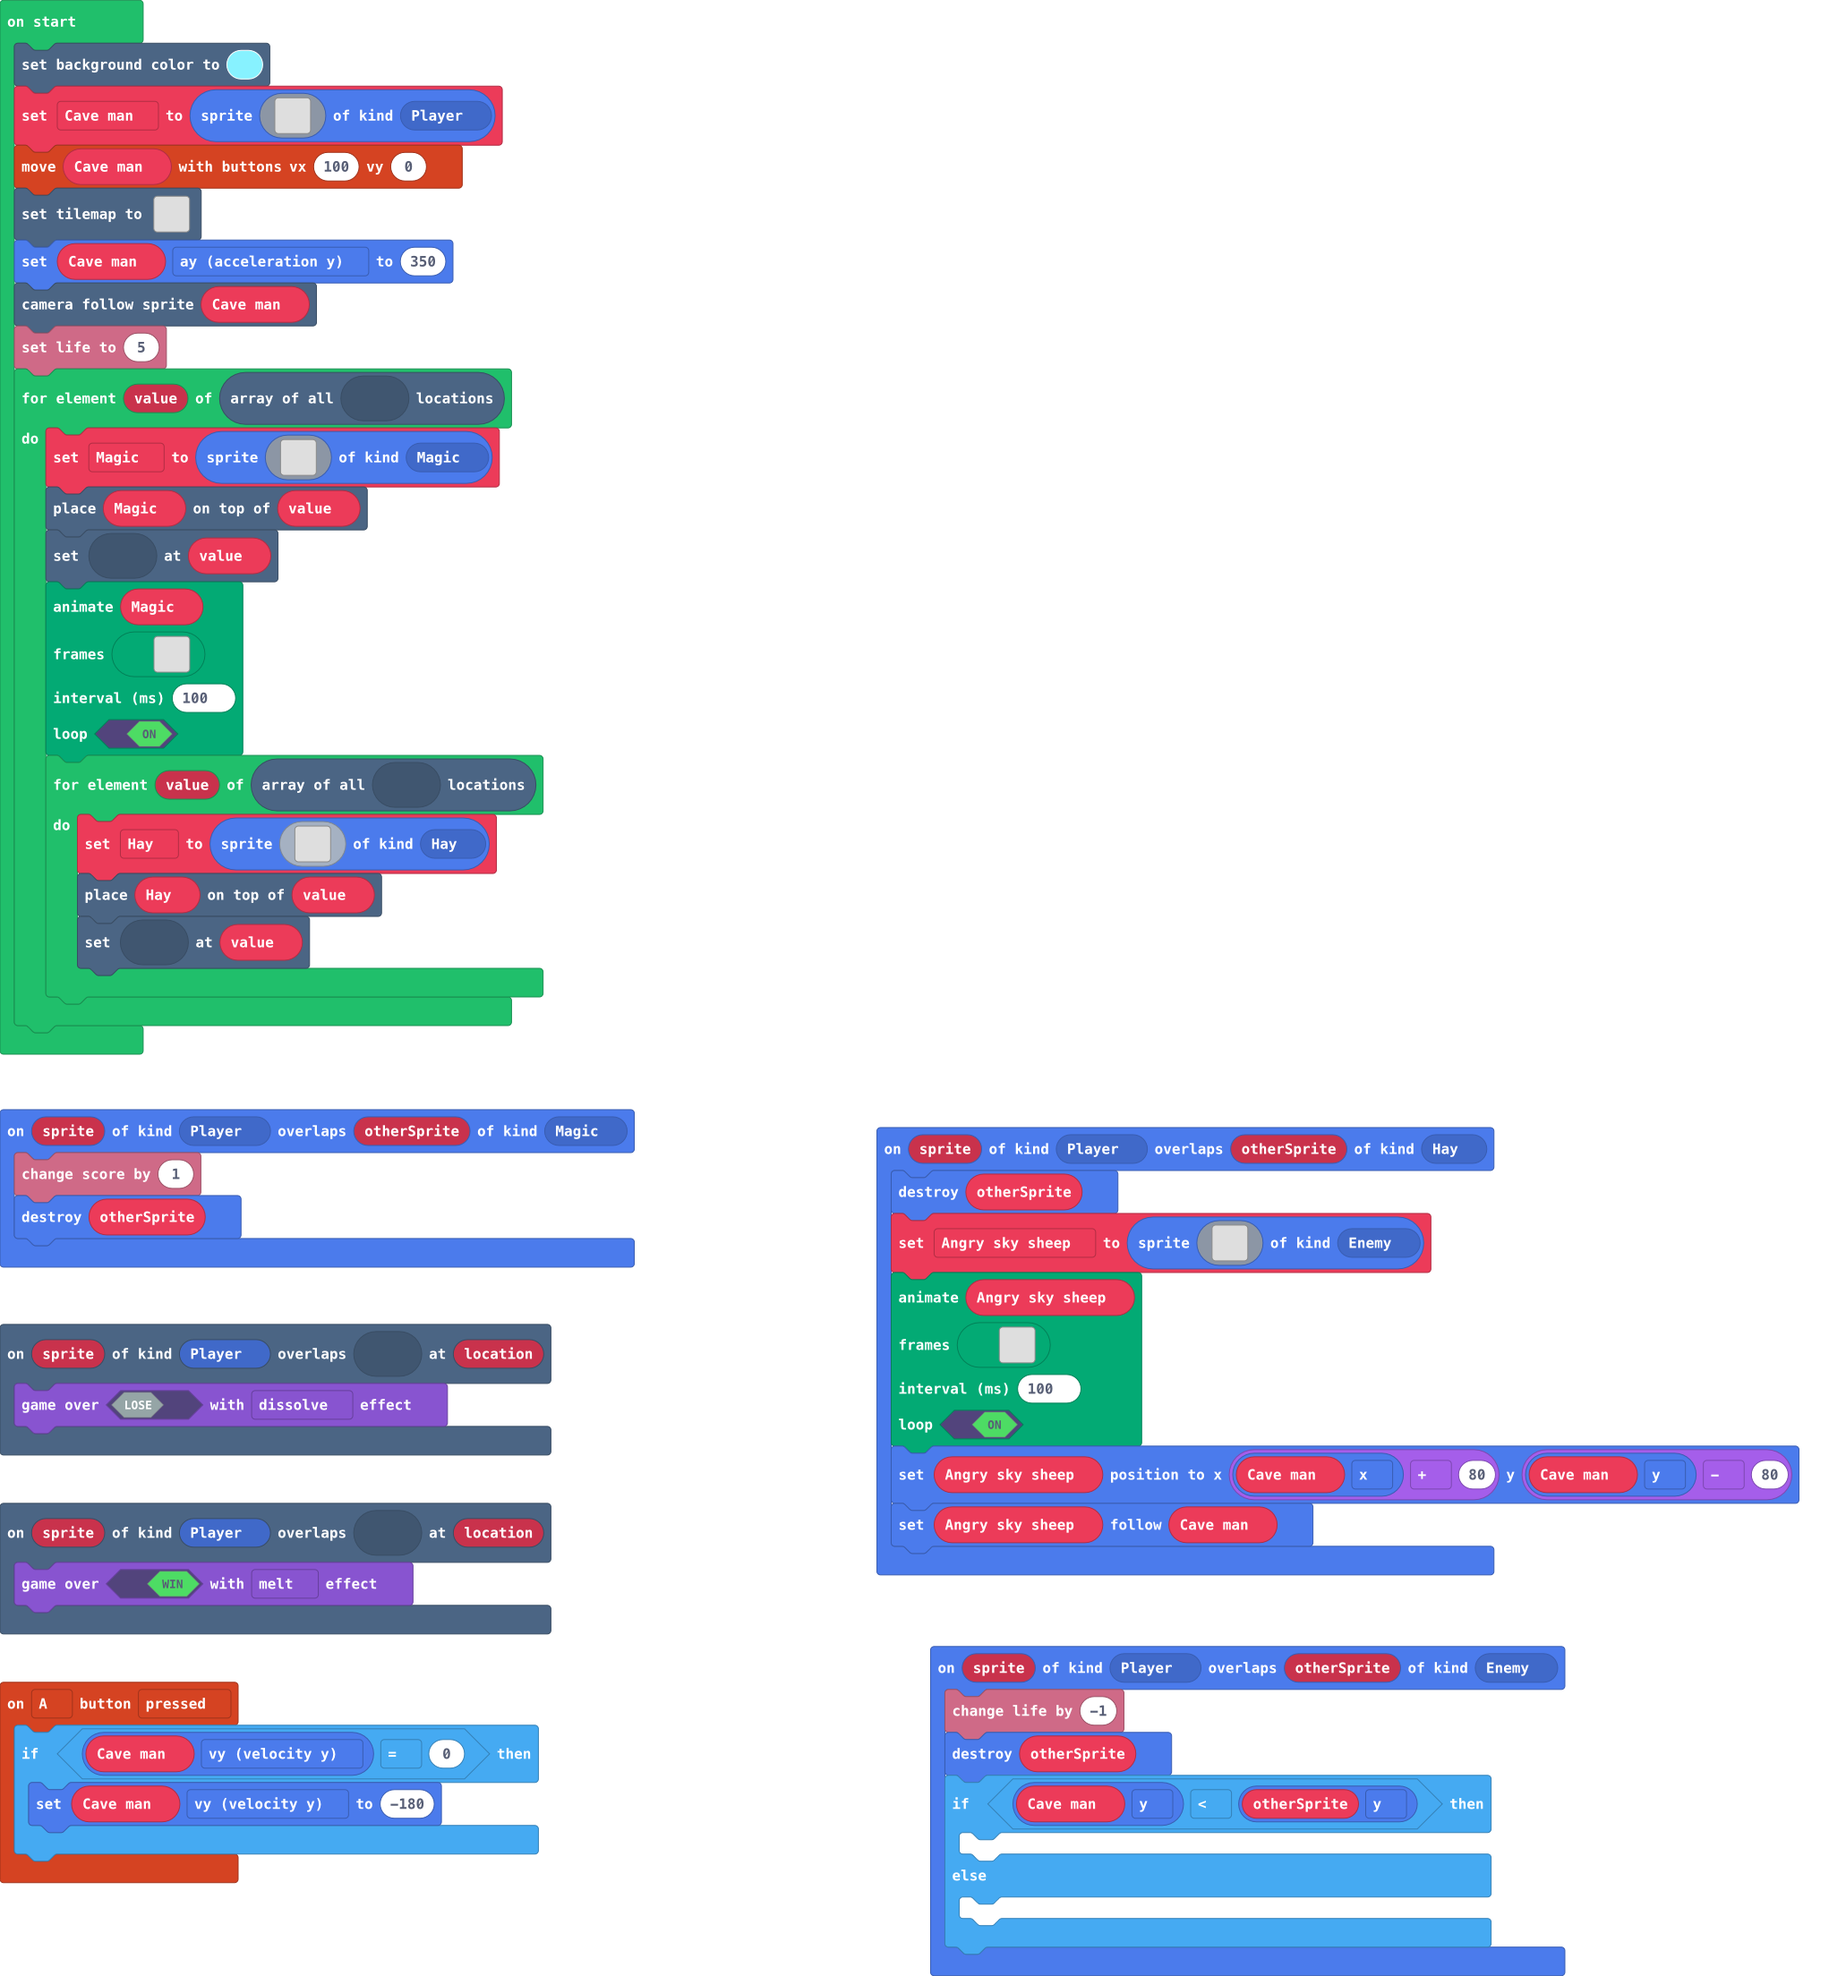
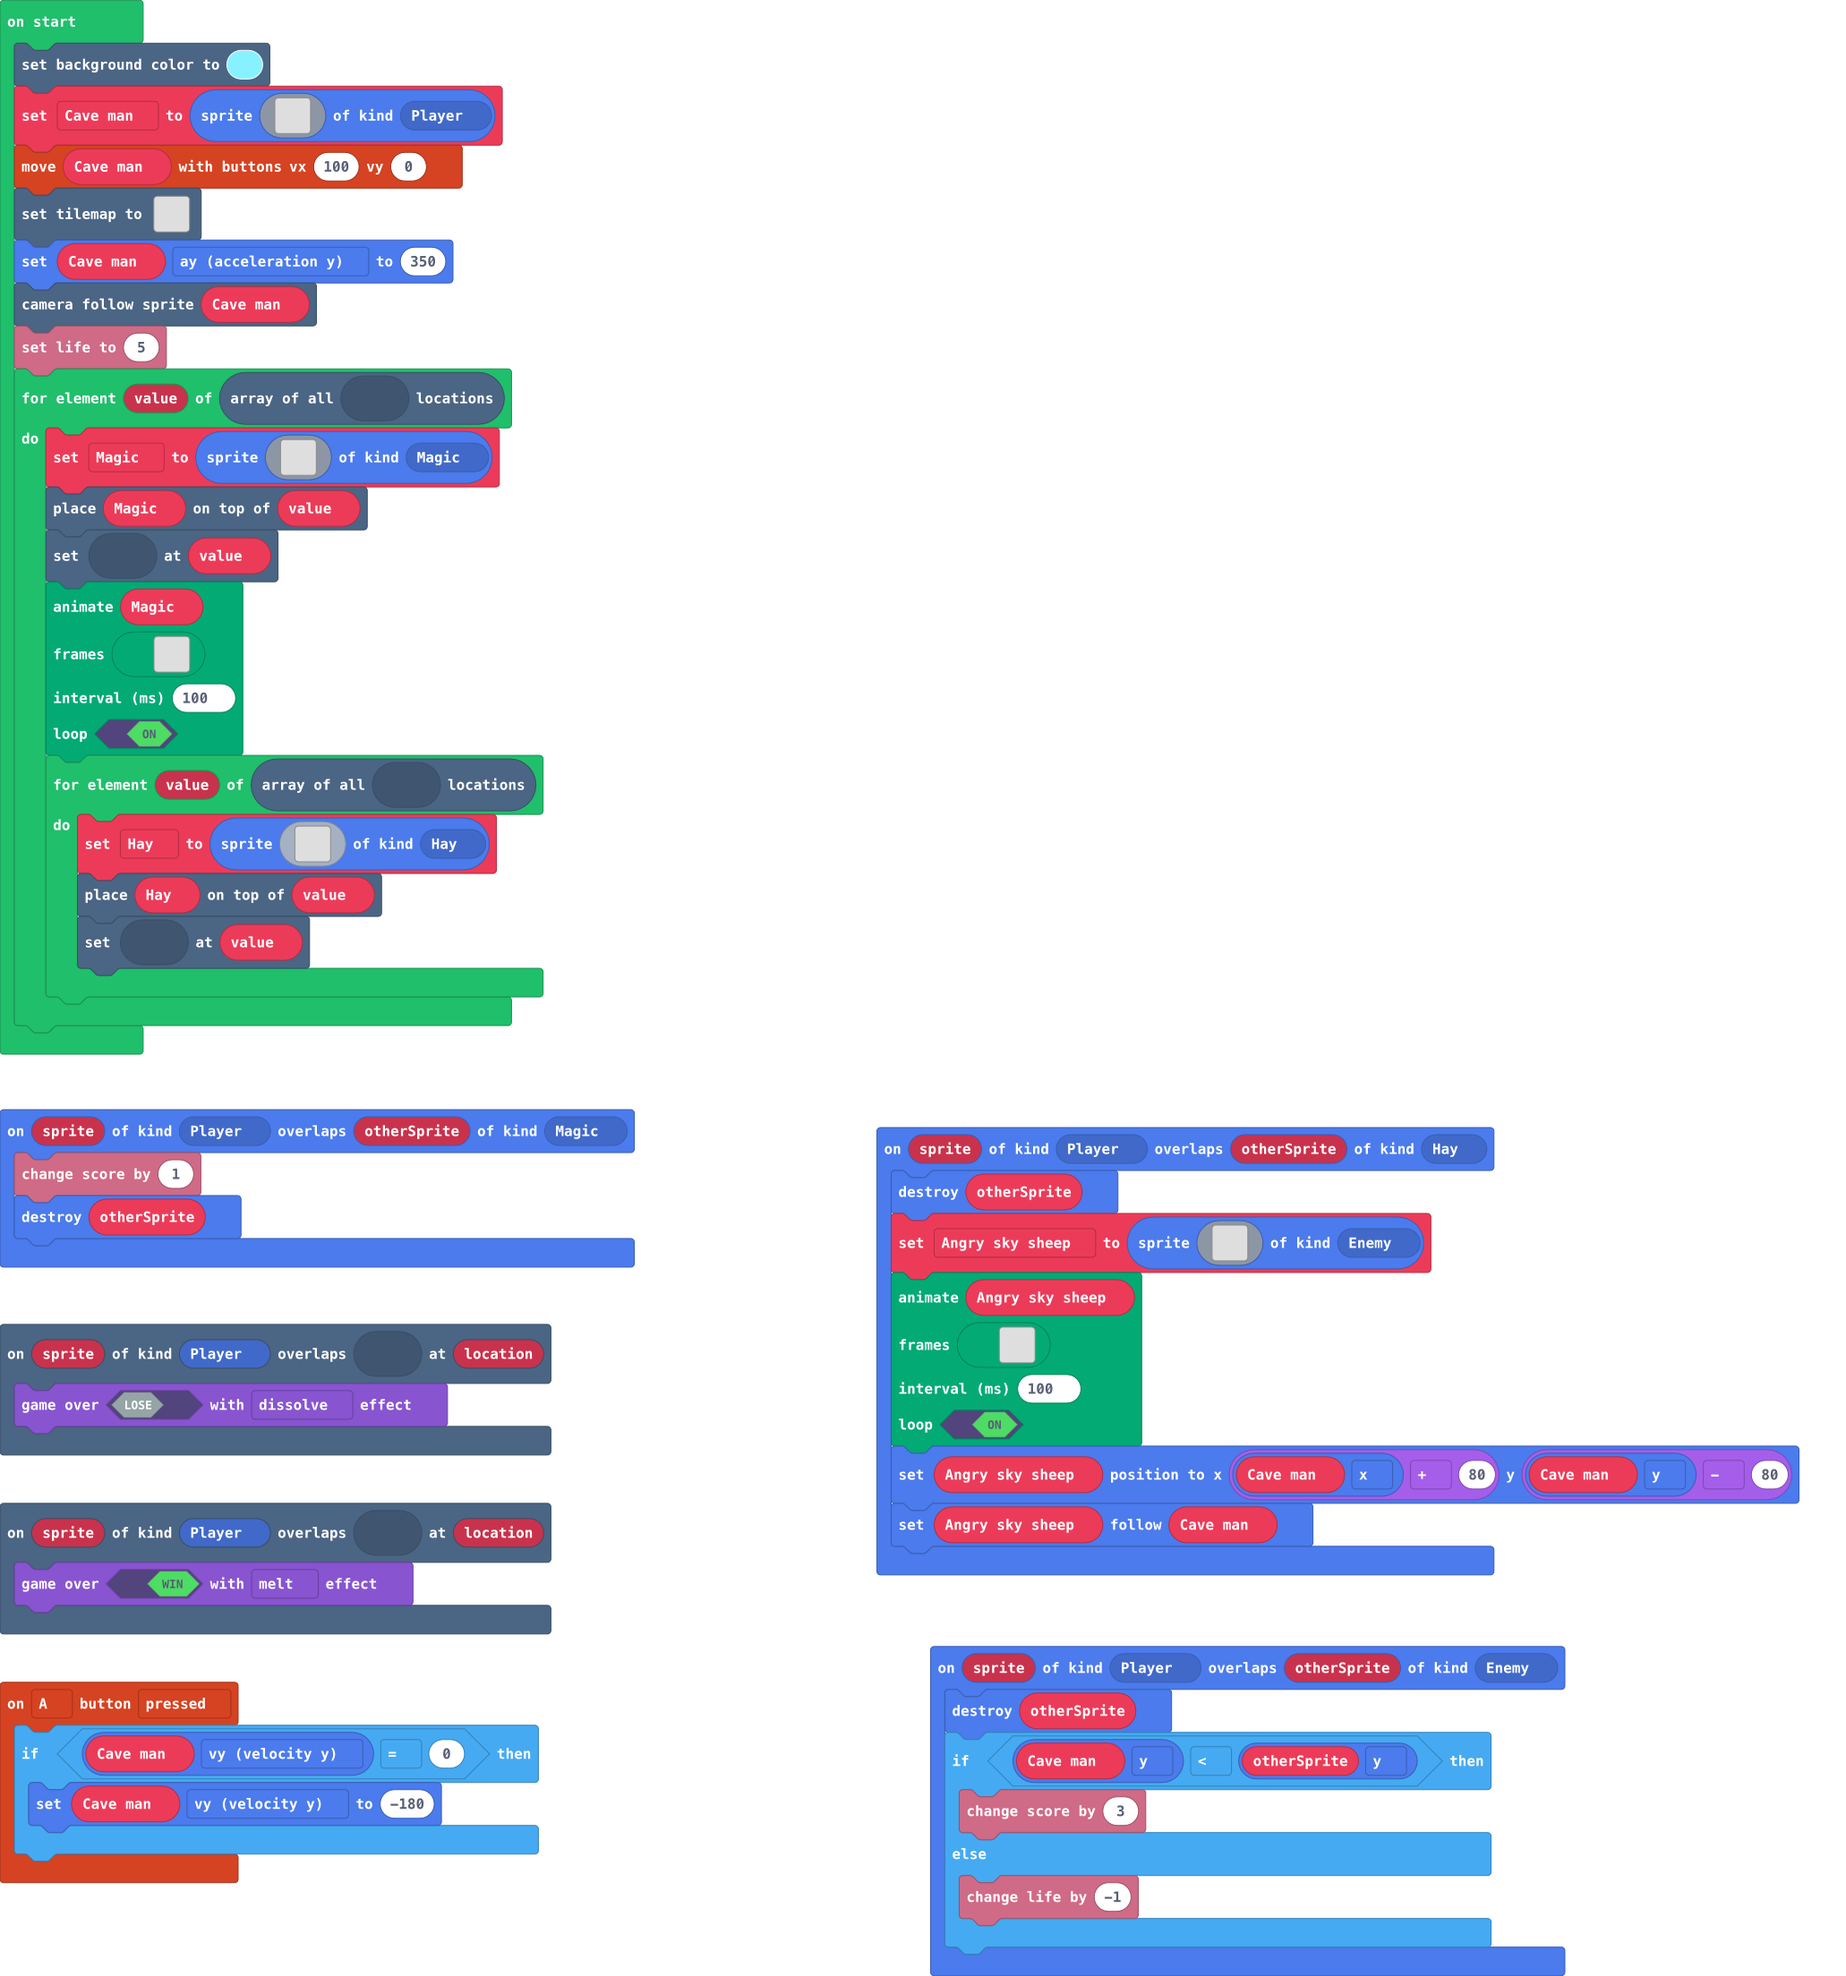
angry sky sheep part 2

Changed region(s): [[0.4966, 0.8438, 0.807, 1.0]]

diff --git a/main.ts b/main.ts
@@ -149,12 +149,11 @@ sprites.onOverlap(SpriteKind.Player, SpriteKind.Hay, function (sprite, otherSpri
     Angry_sky_sheep.follow(Cave_man)
 })
 sprites.onOverlap(SpriteKind.Player, SpriteKind.Enemy, function (sprite, otherSprite) {
-    info.changeLifeBy(-1)
     otherSprite.destroy()
     if (Cave_man.y < otherSprite.y) {
-    	
+        info.changeScoreBy(3)
     } else {
-    	
+        info.changeLifeBy(-1)
     }
 })
 let Angry_sky_sheep: Sprite = null
